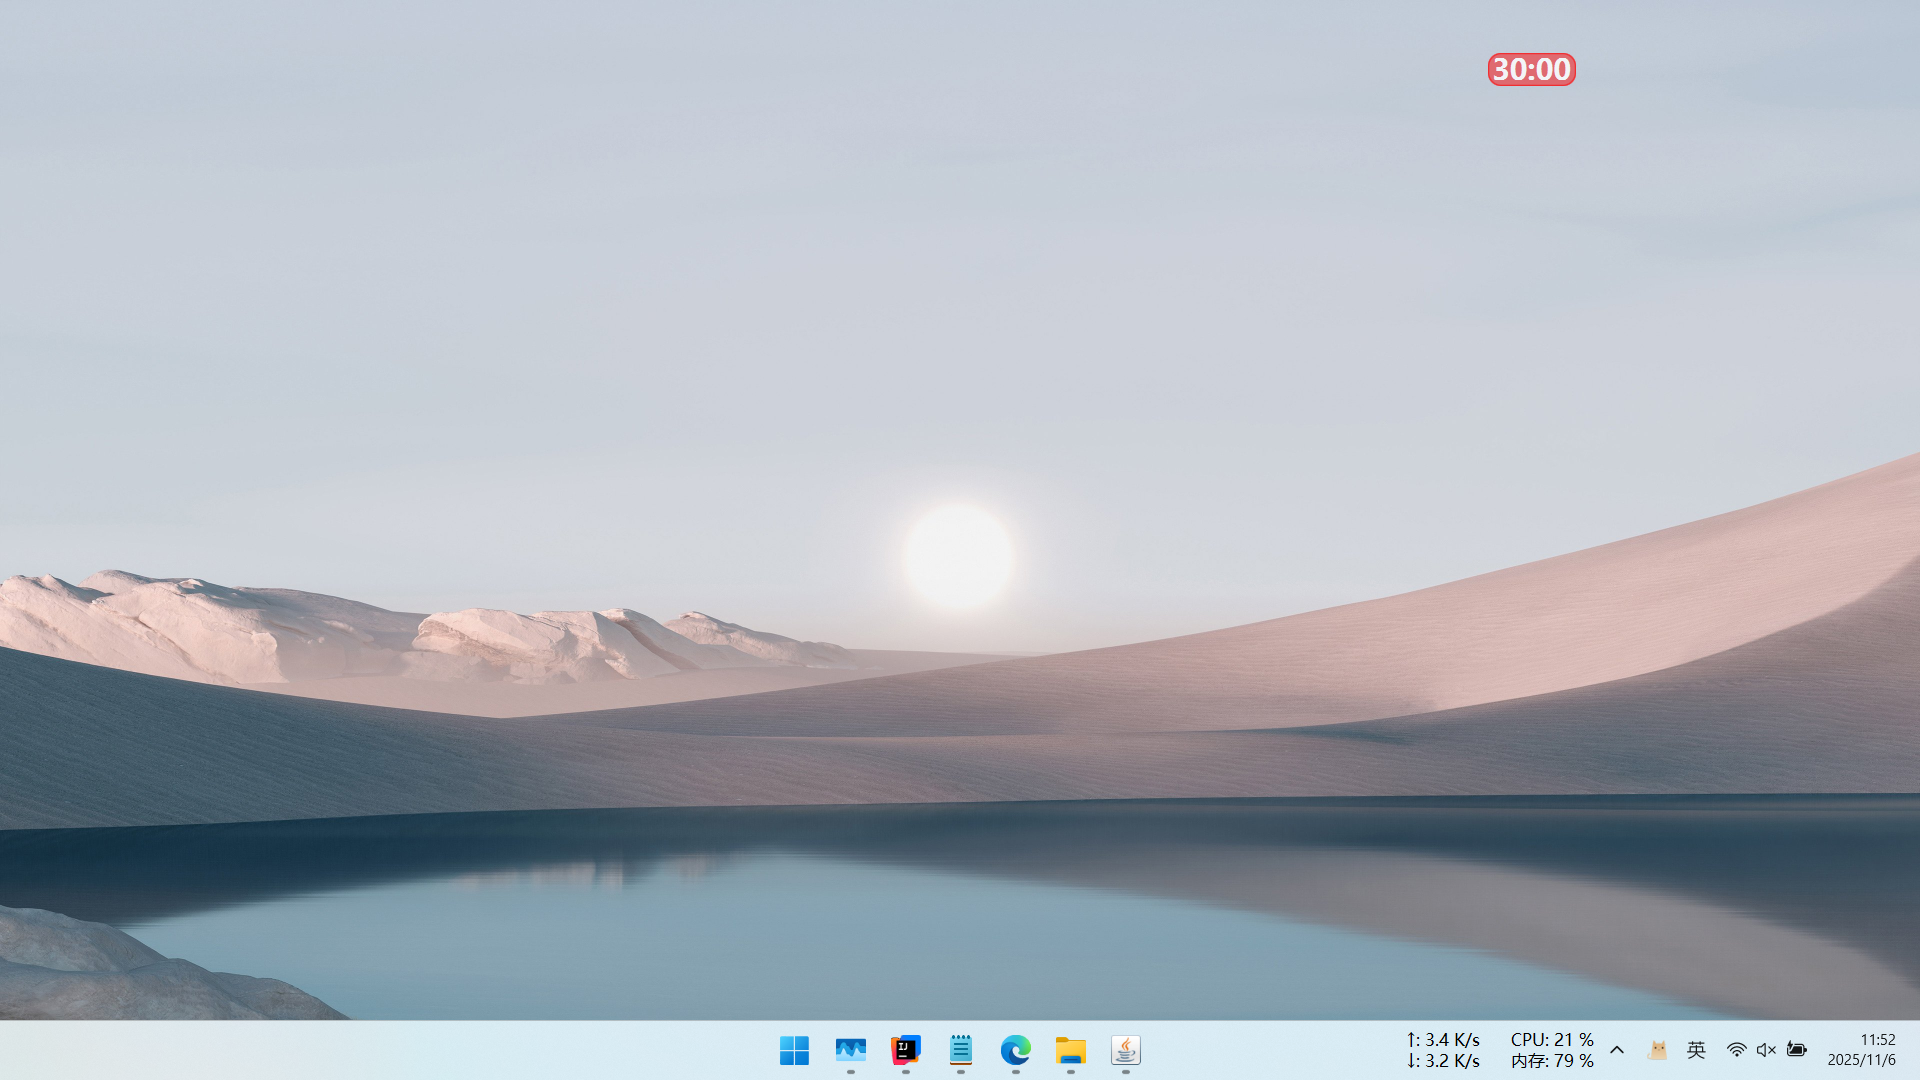
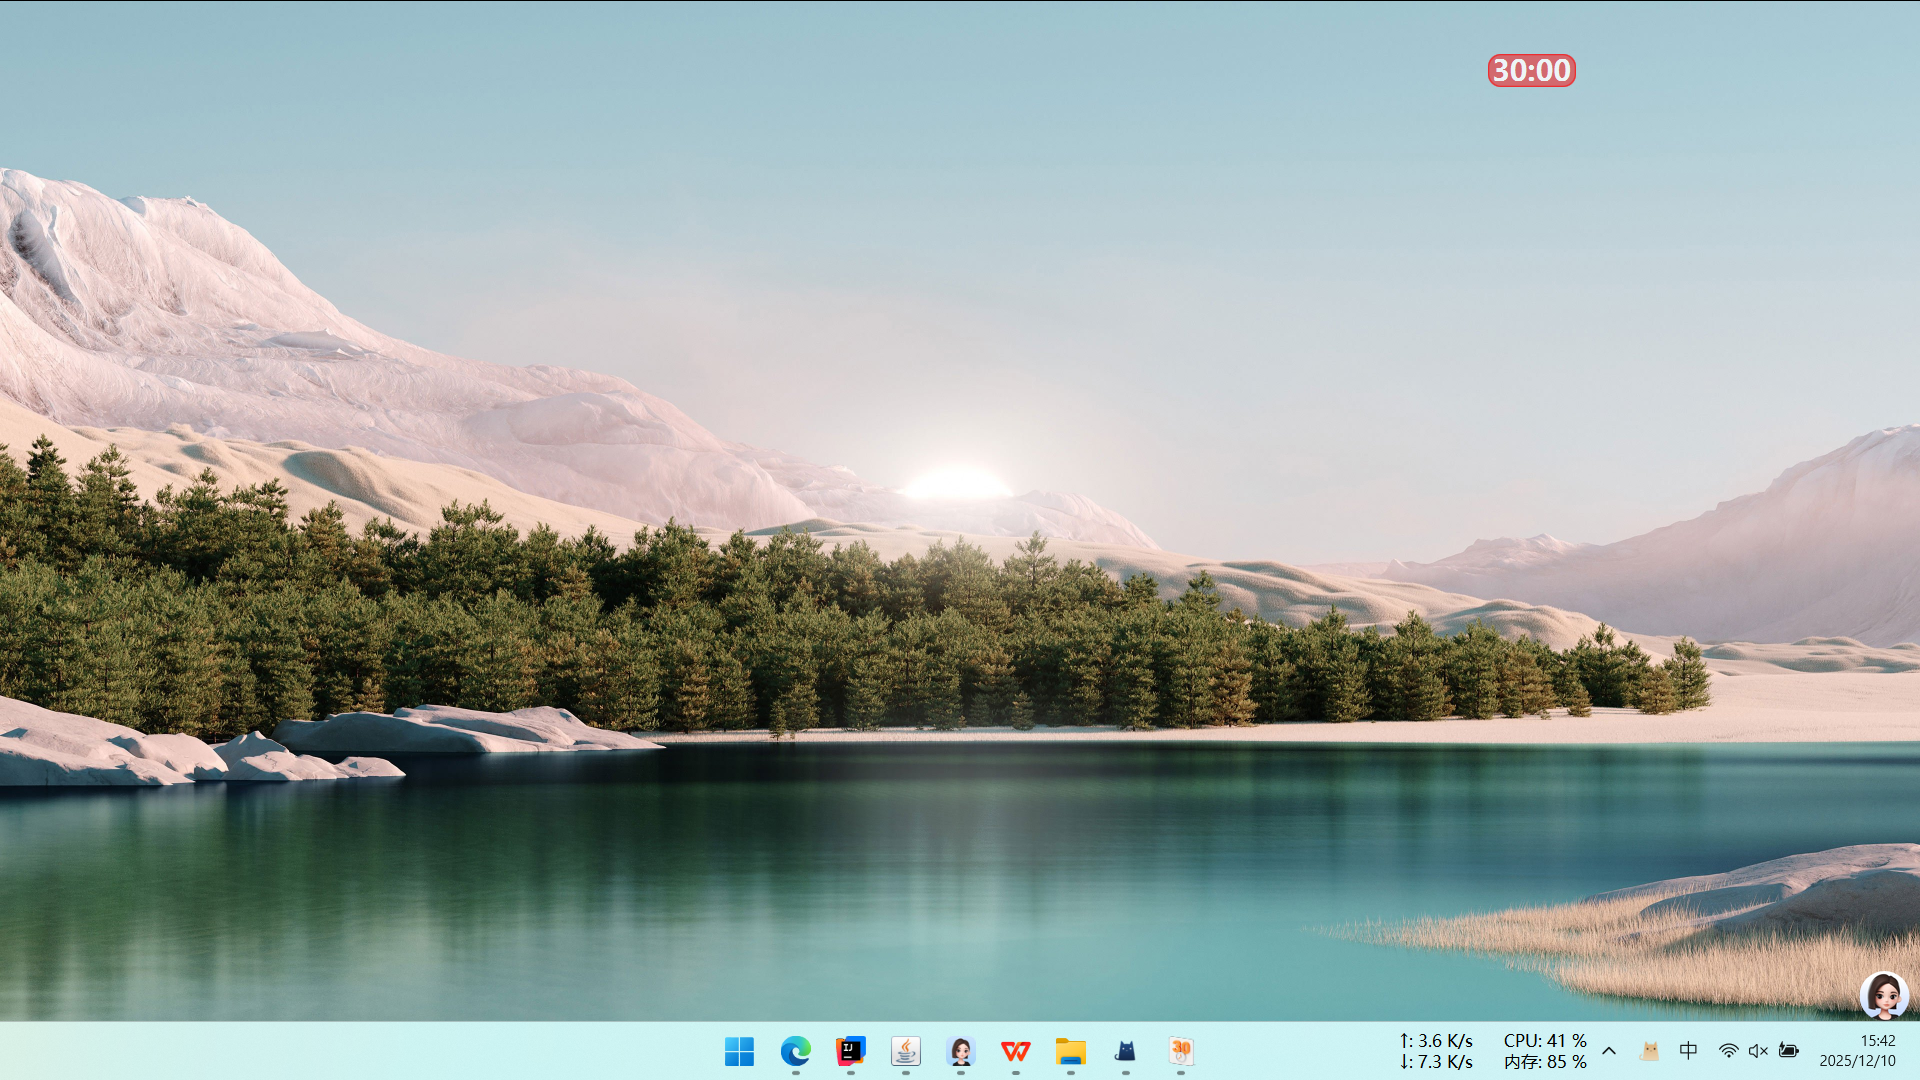
20251210_更新展示图片和md

diff --git a/README.md b/README.md
@@ -17,8 +17,8 @@ Focus30 是一个使用 **JavaFX** 编写的专注倒计时应用。
 ```
 Focus30/
 ├─ imag/ # 存放图标和图片资源
-├─ out/ # 编译输出目录，class、jar、exe文件
 ├─ src/ # Java 源代码目录
+├─ tools # 项目中的辅助工具
 ├─ .gitignore # Git 忽略文件配置
 ├─ Focus30.xml # Launch4j 配置文件
 ├─ README.md # 项目说明文件
